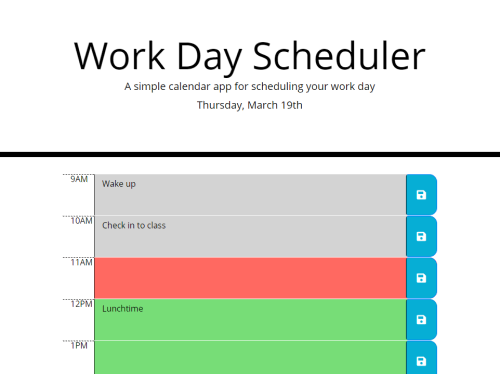
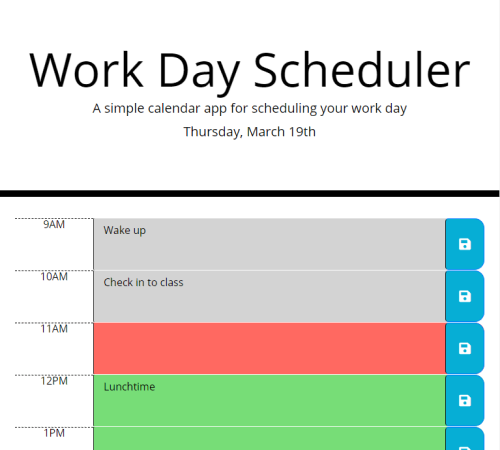
final touches

Changed region(s): [[0.0, 0.3824, 1.0, 1.0], [0.06, 0.0882, 0.96, 0.3235]]

diff --git a/script.js b/script.js
@@ -5,7 +5,8 @@ $(function() {
     let endHour = 17;
     let saveName = "WDSData"; //the name our local storage item is going to use
 
-    let hour = moment().hour(); //the current hour
+    let hour = 11;
+    // let hour = moment().hour(); //the current hour
     let save = JSON.parse(localStorage.getItem(saveName)); //load savedata
 
     //set the header date text
@@ -51,10 +52,9 @@ $(function() {
         newSaveBtn.attr("class", "saveBtn btn btn-primary btn-lg col-2 col-sm-1");
         newSaveBtn.attr("type", "submit");
         newSaveBtn.attr("aria-label", "Save changes");
-        // add save icon
-        newSaveBtn.append($("<i>").attr("class", "fas fa-save"));
+        newSaveBtn.append($("<i>").attr("class", "fas fa-save")); // add save icon
 
-
+        //combine and append everything to the page
         newTimeBlock.append(newHourLabel, newTextArea, newSaveBtn);
         $(".container").append(newTimeBlock);
     }

diff --git a/README.md b/README.md
@@ -1,6 +1,6 @@
 # Work Day Scheduler
 
-A responsive scheduling web applet that allows the user to enter and save todo items for each hour of the work day.
+A responsive scheduling applet that allows the user to enter and save todo items for each hour of the work day.
 
 ![Screenshot](Screenshot.png)
 
